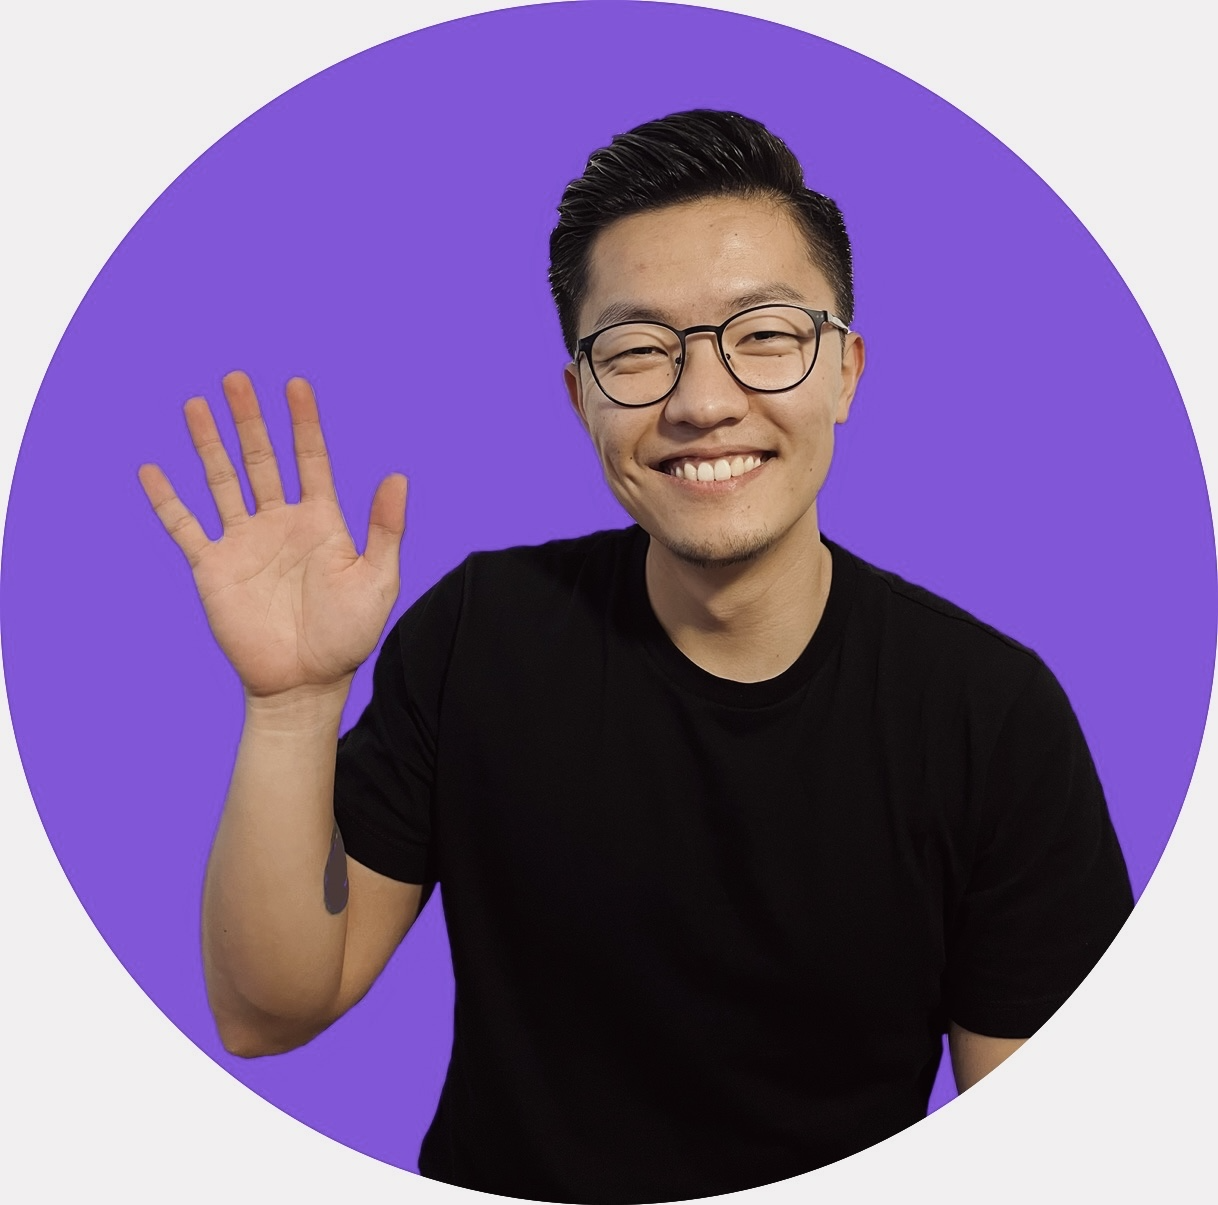
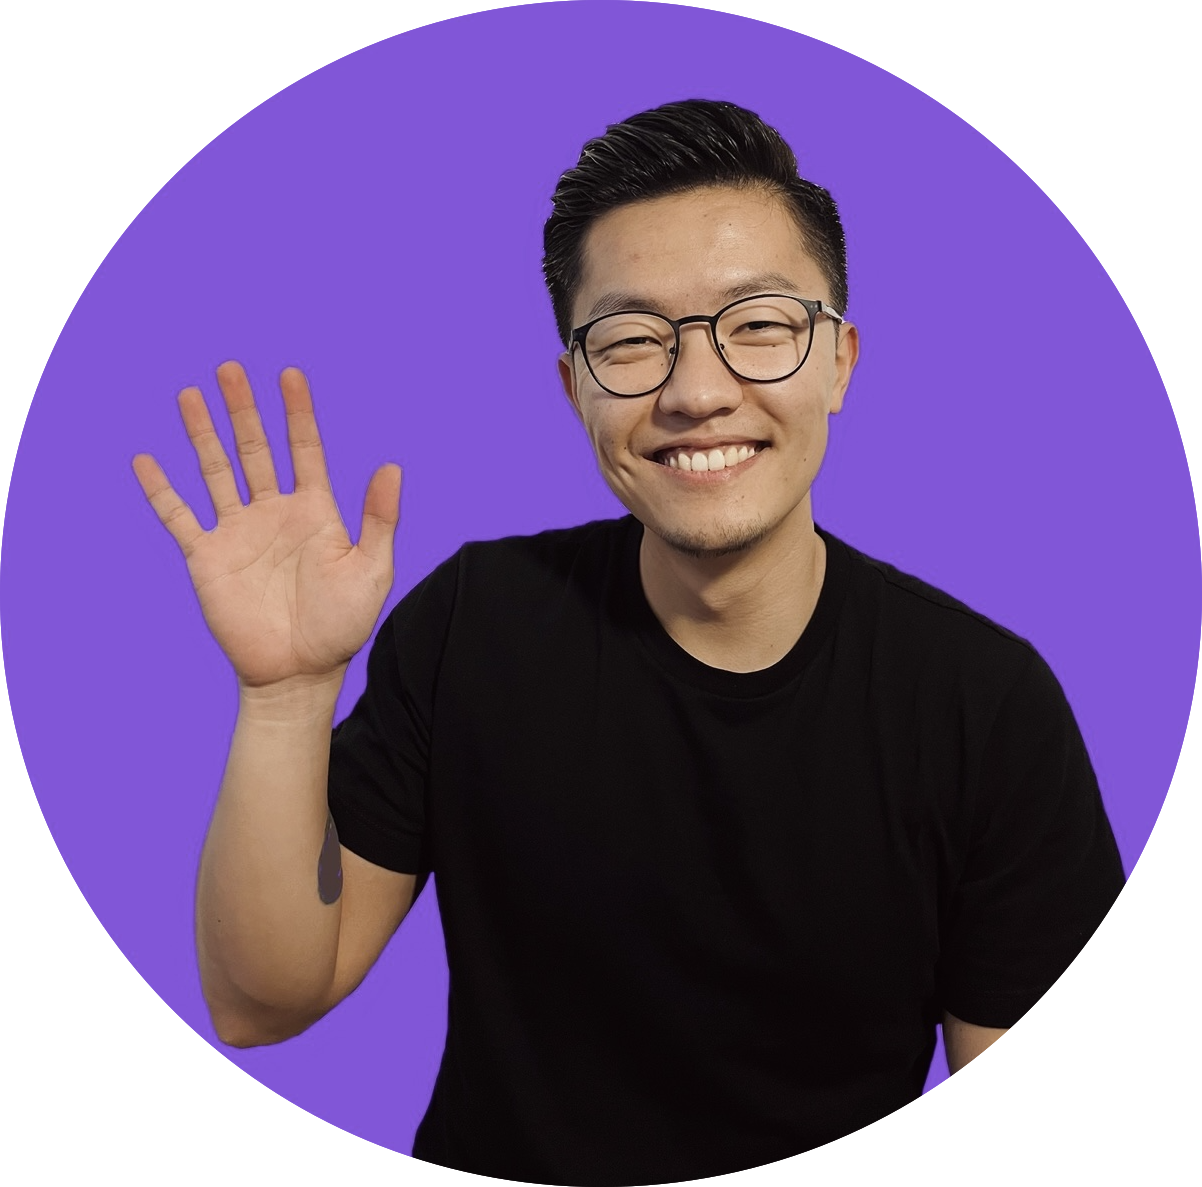
Updated images

diff --git a/src/globalConstants.js b/src/globalConstants.js
@@ -117,7 +117,7 @@ export const PROJECT_CARDS_DATA = [
 
 // Pfade zu den Bildern für die Diashow (Photoslider)
 const PATH_TO_IMAGES = 'src/assets/images/';
-const IMAGE_NAMES_SLIDER = ['IMG_0298.png', 'IMG_4461.png', 
+const IMAGE_NAMES_SLIDER = ['IMG_1912.png', 'IMG_4461.png', 
                             'IMG_2716.png', 'IMG_2610.png',
                             'IMG_4481.png'];
 
